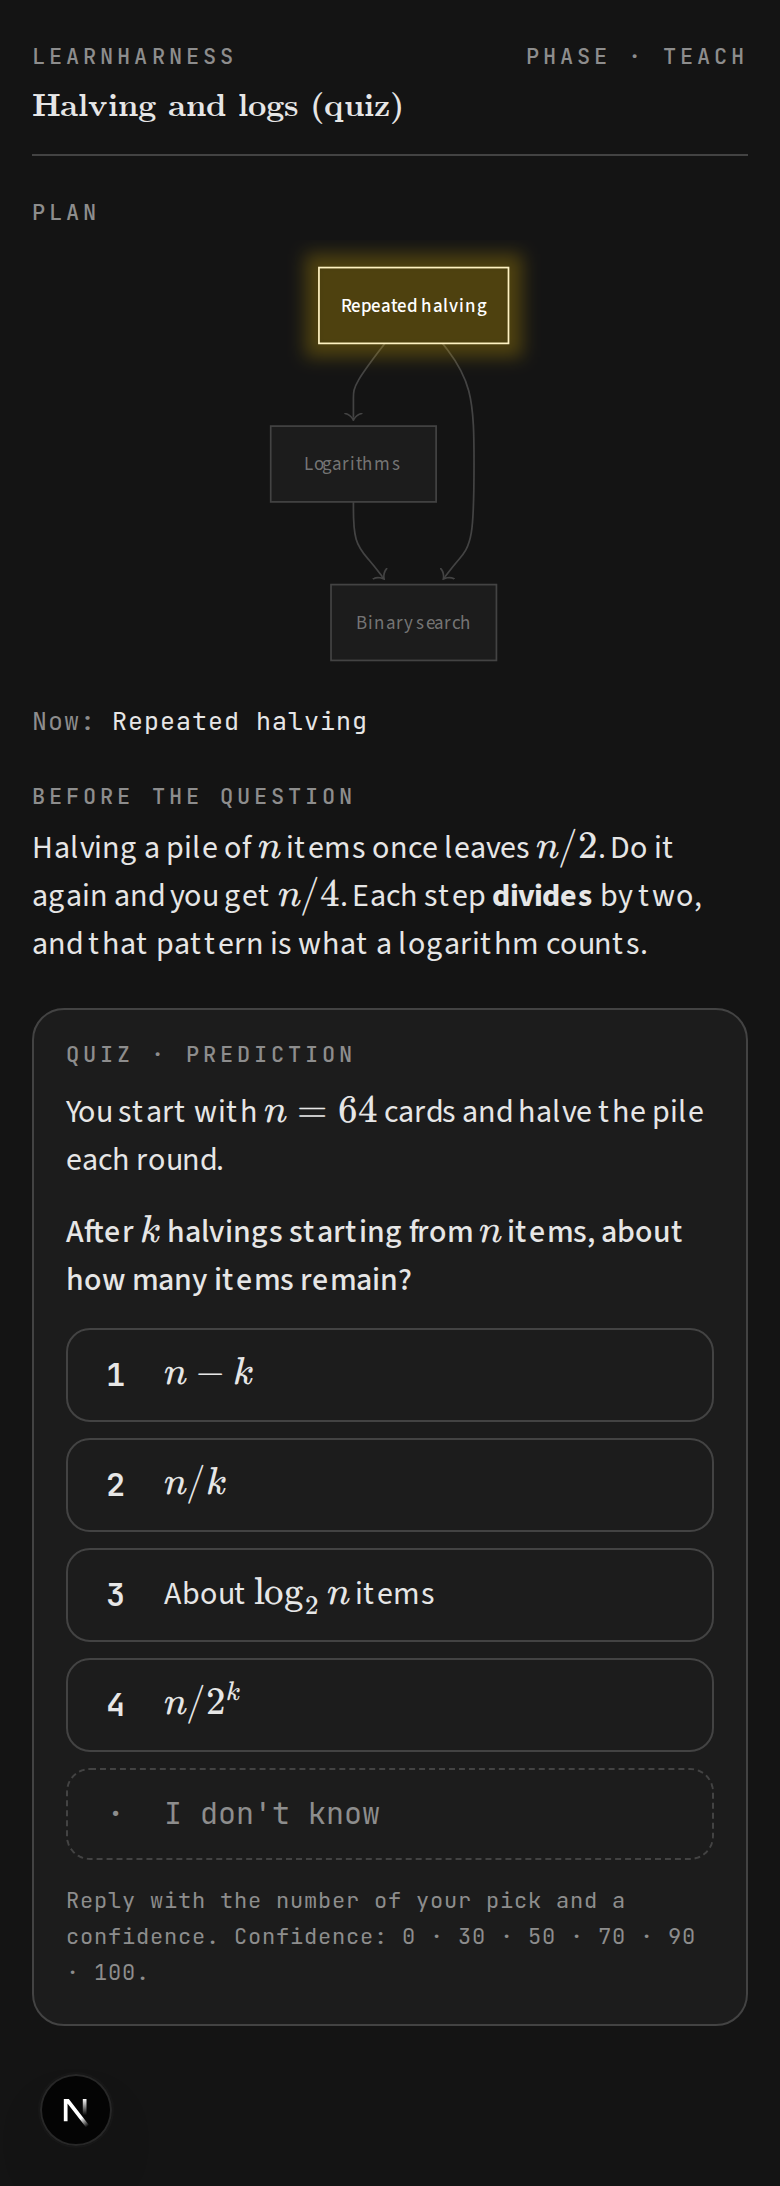
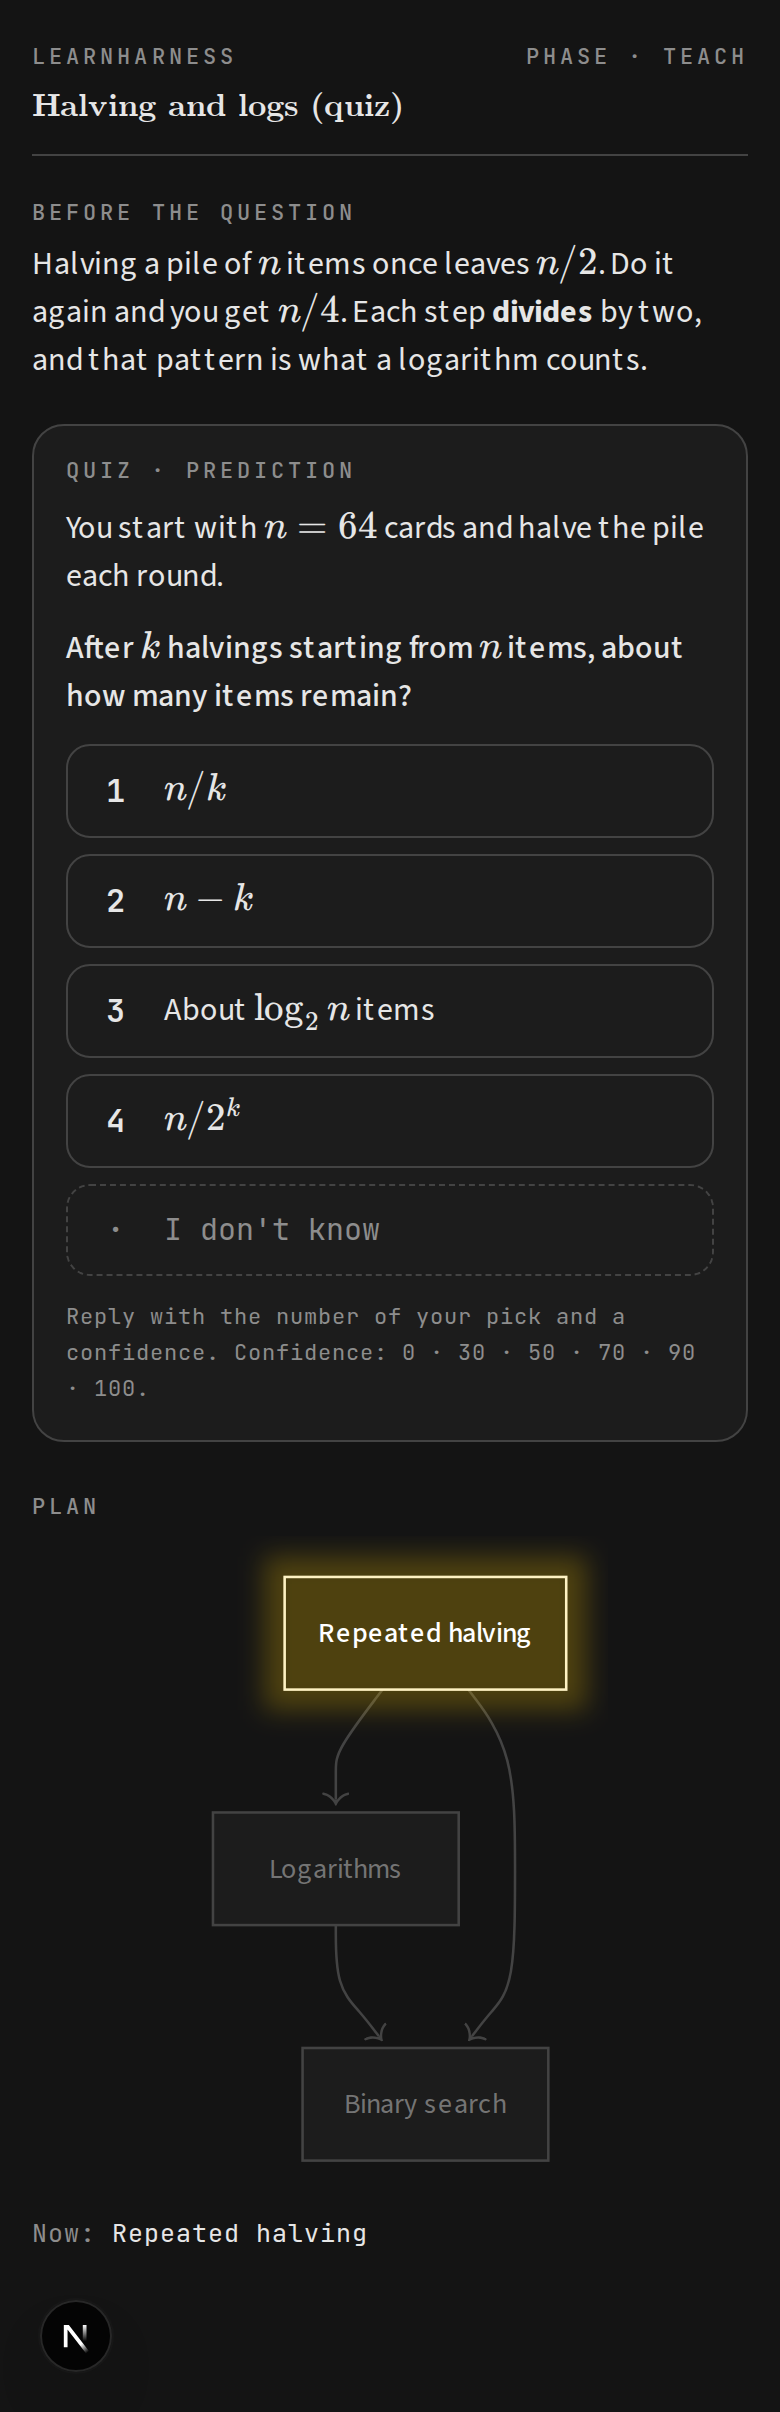
external-teacher 22: plan map scales by width only, below the question; hidden when titles would read under 10 px
Interrogate round 3 (seat A): the 224 px height cap shrank a five-node plan's
titles to 5.5 px. Screenshots retaken, with a nine-node plan.

diff --git a/components/question-card.tsx b/components/question-card.tsx
@@ -2,7 +2,7 @@
 
 import { useId } from "react";
 import { ToolContentResponse, MessageResponse } from "@/components/ai-elements/message";
-import { GRAPH_PAD, PlanDiagram, TEXT_CAP_SCALE } from "@/components/plan-block";
+import { blockLayout, GRAPH_PAD, PlanDiagram, TEXT_CAP_SCALE } from "@/components/plan-block";
 import { CONFIDENCE_STOPS, type QuestionCard as QuestionCardData, type QuestionCardQuestion } from "@/src/core";
 
 /**
@@ -37,24 +37,37 @@ function replyHint(q: QuestionCardQuestion): string {
 	return `Reply with ${pick}${q.quiz ? " and a confidence" : ""}.`;
 }
 
+// The map's width on a 390 px phone (the sheet pads 16 px each side), the
+// node title size in svg units (text-xs), and the smallest title worth
+// drawing. Below that the card shows the current node's title alone.
+const CARD_MAP_WIDTH = 358;
+const NODE_TEXT_UNITS = 11;
+const MIN_NODE_TEXT_PX = 10;
+const MAP_PAD = GRAPH_PAD + 8;
+
+/** The plan map, when its node titles stay readable at 390 px. Height is
+ *  free (the screenshot crops to the page), so only width scales it. */
 function PlanMap({ plan }: { plan: NonNullable<QuestionCardData["plan"]> }) {
 	const markerId = useId().replace(/[^a-zA-Z0-9-]/g, "");
 	const visited = new Set(plan.visited);
 	const statusOf = (id: string) => (id === plan.current ? "current" : visited.has(id) ? "visited" : "upcoming");
 	const currentTitle = plan.current ? plan.tree.nodes.find((n) => n.id === plan.current)?.title : undefined;
+	const layout = blockLayout(plan.tree.nodes, plan.tree.edges);
+	const scale = Math.min(CARD_MAP_WIDTH / (Math.max(layout.width, 1) + 2 * MAP_PAD), TEXT_CAP_SCALE);
+	const legible = scale * NODE_TEXT_UNITS >= MIN_NODE_TEXT_PX;
 	return (
 		<div data-testid="card-plan">
-			<div className="mx-auto max-h-56 overflow-hidden [&_svg]:mx-auto [&_svg]:max-h-56">
+			{legible && (
 				<PlanDiagram
 					nodes={plan.tree.nodes}
 					edges={plan.tree.edges}
 					statusOf={statusOf}
 					glowId={plan.current}
 					markerId={markerId}
-					pad={GRAPH_PAD + 8}
+					pad={MAP_PAD}
 					textCapScale={TEXT_CAP_SCALE}
 				/>
-			</div>
+			)}
 			<p className="mt-2 text-sm">
 				<span className="text-muted-foreground">Now: </span>
 				<span data-testid="card-current-node">{currentTitle ?? "not started"}</span>
@@ -102,13 +115,6 @@ export function QuestionCard({ title, card }: { title: string; card: QuestionCar
 	const q = card.question;
 	return (
 		<CardSheet title={title} tag={`Phase · ${PHASE_LABEL[card.phase]}`}>
-
-				{card.plan && card.phase !== "probe" && (
-					<section className="mb-5">
-						<Label>Plan</Label>
-						<PlanMap plan={card.plan} />
-					</section>
-				)}
 
 				{card.teaching && (
 					<section className="mb-5" data-testid="card-teaching">
@@ -195,6 +201,12 @@ export function QuestionCard({ title, card }: { title: string; card: QuestionCar
 							{replyHint(q)}
 							{q.quiz && <> Confidence: {CONFIDENCE_STOPS.join(" · ")}.</>}
 						</p>
+					</section>
+				)}
+				{card.plan && card.phase !== "probe" && (
+					<section className="mt-6">
+						<Label>Plan</Label>
+						<PlanMap plan={card.plan} />
 					</section>
 				)}
 		</CardSheet>

diff --git a/tests/question-card-page.test.tsx b/tests/question-card-page.test.tsx
@@ -153,6 +153,22 @@ describe("question card page", () => {
 		assert.deepEqual(optionTex(doc), dockOrder(id));
 	});
 
+	for (const [name, mermaid, drawn] of [
+		["a nine-node chain draws the map", "graph TD\n" + Array.from({ length: 8 }, (_, i) => `  n${i}[Step ${i}] --> n${i + 1}[Step ${i + 1}]`).join("\n"), true],
+		["a plan too wide to read at 390 px shows only the current node", "graph TD\n" + Array.from({ length: 8 }, (_, i) => `  r${i}[Branch number ${i}] --> hub[Hub]`).join("\n"), false],
+	] as const) {
+		it(name, async () => {
+			const { id, cursor } = await lesson();
+			const done = await turn(id, { kind: "probe-done", after: cursor, ...ASSESSMENT });
+			const planned = await turn(id, { kind: "plan", after: done, mermaid });
+			const nodeId = drawn ? "n0" : "r0";
+			await turn(id, { kind: "quiz", after: planned, ...QUIZ, nodeId });
+			const doc = await card(id);
+			assert.equal(!!byTestId(doc, "card-plan")?.querySelector("svg"), drawn);
+			assert.equal(byTestId(doc, "card-current-node")?.textContent, drawn ? "Step 0" : "Branch number 0");
+		});
+	}
+
 	it("a recall says a typed answer is expected and shows no options", async () => {
 		const { id, cursor } = await lesson();
 		await turn(id, { kind: "recall", after: cursor, question: "Explain what $\\log_2 n$ counts.", correctAnswer: "Halvings to reach 1." });

diff --git a/.scratch/external-teacher/card-22/README.md b/.scratch/external-teacher/card-22/README.md
@@ -1,12 +1,13 @@
 # Ticket 22 card screenshots
 
-Made 2026-11-02 on linuxdev. Retaken at cf18b97, the code the round-3 review covers; only the probe image changed, because the new lesson's call id gives a different shuffle.
+Made 2026-11-02 on linuxdev. Retaken after the round-3 plan-map fix (the commit that adds card-plan9-390.png). The probe lesson's call id is new each run, so its shuffle differs between captures.
 
 - Server: `LH_DATA_DIR=<temp dir> LH_IGNORE_ENV_KEYS=1 npx next dev -H 127.0.0.1 -p 3722`, with the desktop variables unset and no keys.
 - Lessons were created with `scripts/lh.mjs`. Every JSON payload containing `$` went through `--file` (the files are in this folder):
   - probe: `lesson new`, `say --file say.txt`, then `probe --file probe.json`
   - quiz: `lesson new`, `probe-done --file done.json`, `plan --file plan.mmd`, `say --file say.txt`, then `quiz --file quiz.json`
+  - plan9: as quiz, with `plan --file plan9.mmd` (a nine-node plan; its titles must stay readable at 390 px)
   - none: `lesson new`, then `say --file say.txt`
-- Capture: `node shot.mjs http://127.0.0.1:3722 <out dir> probe=<id> quiz=<id> none=<id>`. It uses puppeteer-core with chrome-headless-shell at 390 x 844 CSS px, DPR 2, and crops each image to the card's height.
-- The script printed `non-GET requests: []` for all three page loads. The card sent no POST, so no `continue` and no answer.
+- Capture: `node shot.mjs http://127.0.0.1:3722 <out dir> probe=<id> quiz=<id> plan9=<id> none=<id>`. It uses puppeteer-core with chrome-headless-shell at 390 x 844 CSS px, DPR 2, and crops each image to the card's height.
+- The script printed `non-GET requests: []` for all four page loads. The card sent no POST, so no `continue` and no answer.
 - The round "N" in the bottom-left corner is Next's dev-mode indicator. It appears only under `next dev`, and the card's bottom padding keeps it clear of the content.
